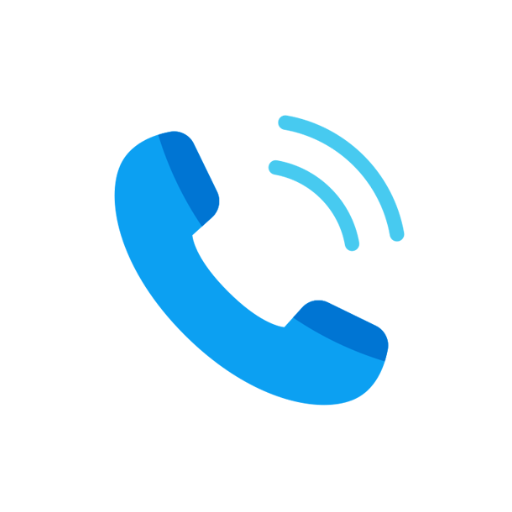
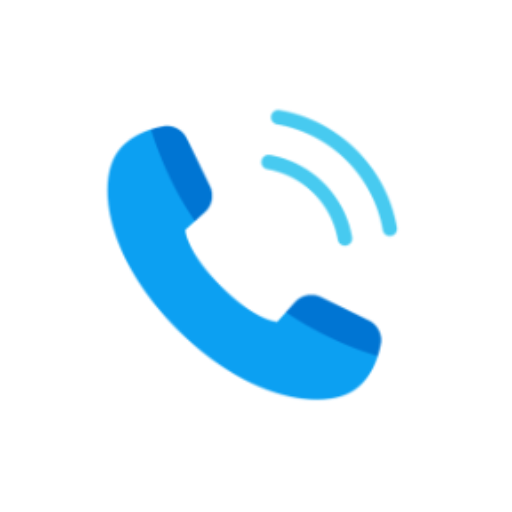
Resolve #59 #60 #63

diff --git a/app/src/main/java/com/grinch/rivo4/view/screen/CallScreen.kt b/app/src/main/java/com/grinch/rivo4/view/screen/CallScreen.kt
@@ -115,6 +115,11 @@ fun ExpressiveCallScreen(
     val interactionSource = remember { MutableInteractionSource() }
     val isPressed by interactionSource.collectIsPressedAsState()
 
+    val settingsState by preferenceManager.settingsChanged.collectAsState()
+    val showCallScreenAvatar = remember(settingsState) {
+        preferenceManager.getBoolean(PreferenceManager.KEY_SHOW_CALL_SCREEN_AVATAR, true)
+    }
+
     LaunchedEffect(callState) {
         if (callState == Call.STATE_ACTIVE) {
             val startTime = System.currentTimeMillis() - (callDuration * 1000)
@@ -268,12 +273,19 @@ fun ExpressiveCallScreen(
                 }
 
                 if (!showKeypad) {
-                    Spacer(modifier = Modifier.height(24.dp))
-
-                    if (callState == Call.STATE_RINGING) {
-                        PulsingAvatar(photoUri)
-                    } else {
-                        HeroAvatar(photoUri)
+                    AnimatedVisibility(
+                        visible = showCallScreenAvatar,
+                        enter = fadeIn() + expandVertically(),
+                        exit = fadeOut() + shrinkVertically()
+                    ) {
+                        Column {
+                            Spacer(modifier = Modifier.height(24.dp))
+                            if (callState == Call.STATE_RINGING) {
+                                PulsingAvatar(photoUri)
+                            } else {
+                                HeroAvatar(photoUri)
+                            }
+                        }
                     }
                 }
             }

diff --git a/app/src/main/java/com/grinch/rivo4/view/screen/settings/InterfaceScreen.kt b/app/src/main/java/com/grinch/rivo4/view/screen/settings/InterfaceScreen.kt
@@ -68,12 +68,13 @@ fun InterfaceScreen(
     var transitionStyle by remember { mutableStateOf(prefs.getInt(PreferenceManager.KEY_TRANSITION_STYLE, 0)) }
     var customPrimaryColor by remember { mutableStateOf(prefs.getInt("custom_primary_color", Color(0xFF6750A4).toArgb())) }
     var avatarShape by remember { mutableStateOf(prefs.getInt(PreferenceManager.KEY_AVATAR_SHAPE, 0)) }
+    var showCallScreenAvatar by remember { mutableStateOf(prefs.getBoolean(PreferenceManager.KEY_SHOW_CALL_SCREEN_AVATAR, true)) }
     var searchMatchMode by remember { mutableStateOf(prefs.getInt(PreferenceManager.KEY_SEARCH_MATCH_MODE, 0)) }
     var cardRoundness by remember { mutableStateOf(prefs.getInt(PreferenceManager.KEY_CARD_ROUNDNESS, 28)) }
 
     val presetColors = listOf(
-        Color(0xFF6750A4), Color(0xFF0061A4), Color(0xFF006A60), Color(0xFF436916),
-        Color(0xFF984061), Color(0xFF006874), Color(0xFF705D00), Color(0xFFBF0031)
+        Color(0xFF6750A4), Color(0xFF0061A4), Color(0xFF006A60),
+        Color(0xFF436916), Color(0xFF984061), Color(0xFF808080)
     )
 
     fun showRestartPrompt() {
@@ -215,6 +216,17 @@ fun InterfaceScreen(
                             onValueChange = {
                                 avatarShape = it
                                 prefs.setInt(PreferenceManager.KEY_AVATAR_SHAPE, it)
+                            }
+                        )
+                        RivoDivider(Modifier.padding(horizontal = 16.dp))
+                        RivoSwitchListItem(
+                            headline = "Call screen avatar",
+                            supporting = "Show contact picture on call screen",
+                            leadingIcon = Icons.Outlined.ContactPage,
+                            checked = showCallScreenAvatar,
+                            onCheckedChange = {
+                                showCallScreenAvatar = it
+                                prefs.setBoolean(PreferenceManager.KEY_SHOW_CALL_SCREEN_AVATAR, it)
                             }
                         )
                     }

diff --git a/app/src/main/java/com/grinch/rivo4/controller/util/PreferenceManager.kt b/app/src/main/java/com/grinch/rivo4/controller/util/PreferenceManager.kt
@@ -142,6 +142,7 @@ class PreferenceManager(context: Context) {
         const val KEY_QUICK_RESPONSE_ENABLED = "quick_response_enabled"
         const val KEY_INCOMING_CALL_UI_MODE = "incoming_call_ui_mode"
         const val KEY_SHOW_CARDS = "show_cards"
+        const val KEY_SHOW_CALL_SCREEN_AVATAR = "show_call_screen_avatar"
         const val KEY_CARD_ROUNDNESS = "card_roundness"
         const val KEY_ONBOARDING_SHOWN = "onboarding_shown"
     }